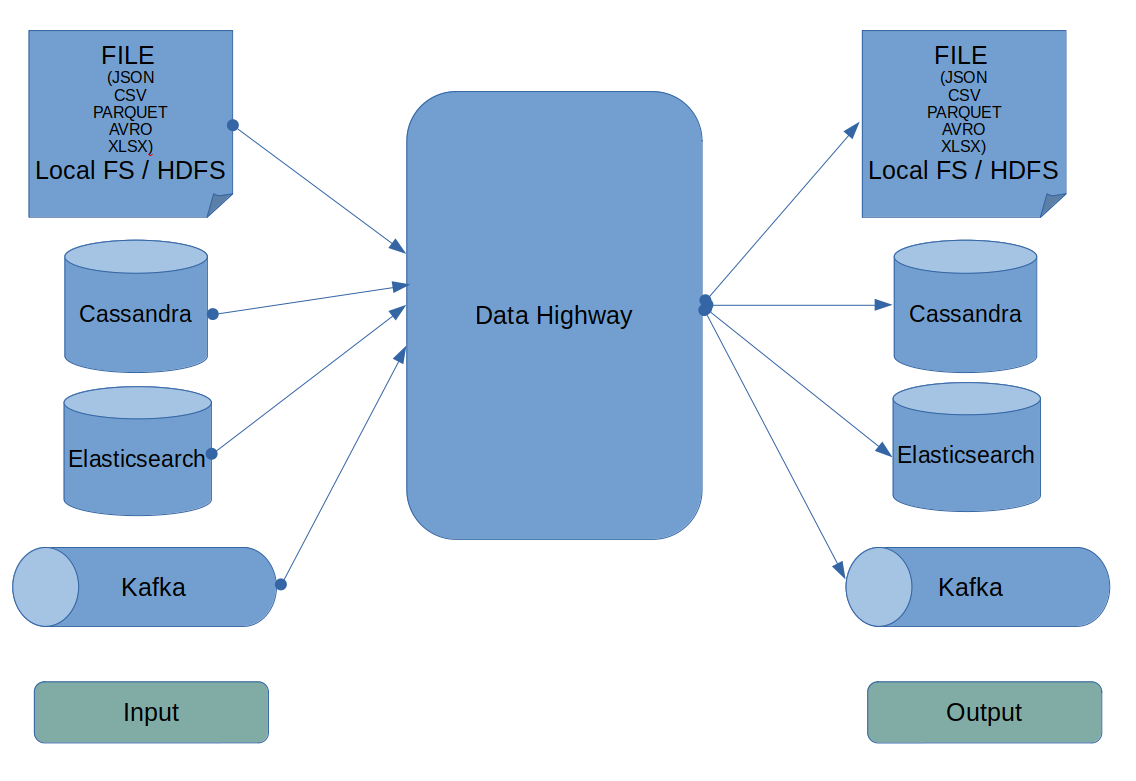
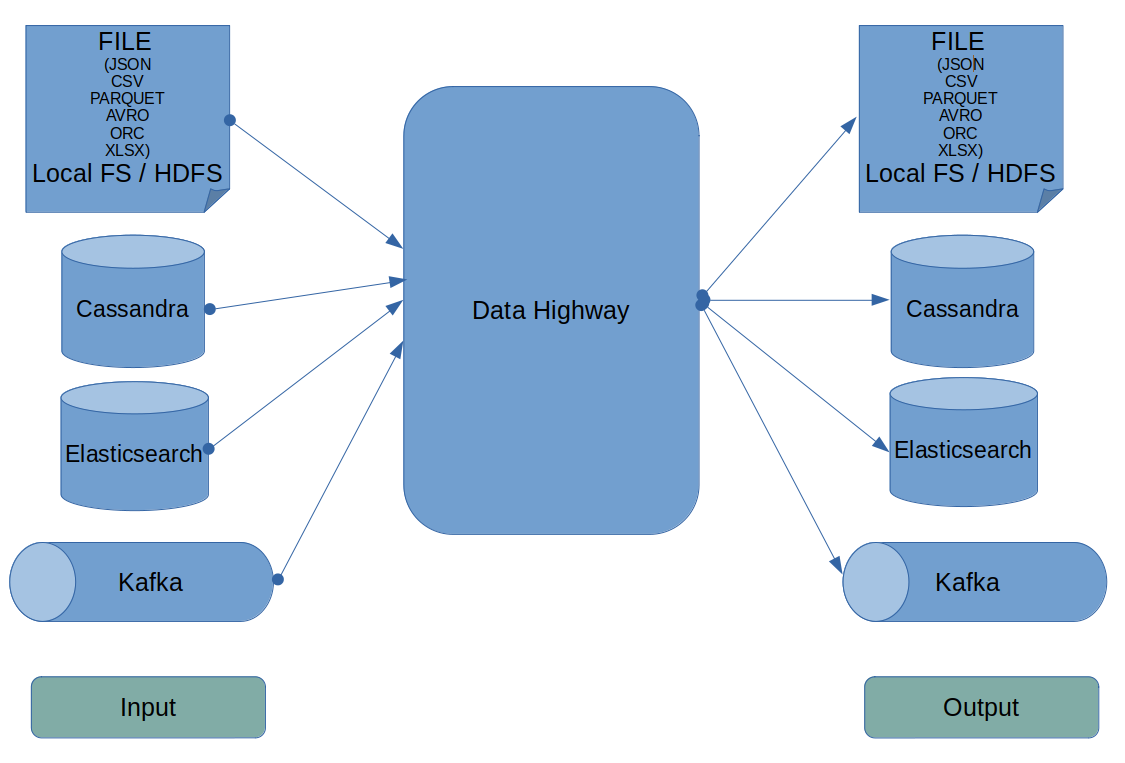
Update documentation

diff --git a/README.md b/README.md
@@ -1,15 +1,15 @@
 Yet another ETL.
 
 Using **data-highway**, you can convert your data to multiple data types or send them to other tools.
-The actual supported data types are : **JSON**, **CSV**, **PARQUET**, **AVRO** and **XLSX**.
+The actual supported data types are : **JSON**, **CSV**, **PARQUET**, **AVRO**, **ORC** and **XLSX**.
 **Data Highway** interacts as well with **Cassandra**, **Elasticsearch** and **Kafka**, using multiple modes.
 
 For example, **Data Highway** allows you to :
   - interact with different technologies through a user-friendly **RESTful API**
-  - produce **PARQUET**(avro, csv, json or xlsx) files into a **Kafka** topic
+  - produce **PARQUET**(avro, csv, json, orc or xlsx) files into a **Kafka** topic
   - index **AVRO**(parquet, csv, json or xlsx) files into an **Elasticsearch** index
   - insert **XLSX**(avro, csv, json or parquet) files into a **Cassandra** Table
-  - convert **CSV**(avro, parquet, json or xlsx) files to **JSON**(avro, csv, parquet or xlsx)
+  - convert **CSV**(avro, parquet, json, orc or xlsx) files to **JSON**(avro, csv, parquet, orc or xlsx)
   - convert or send files located in your **Local File System** or in **HDFS**
 
 In short, **Data Highway** supports the following data flow :
@@ -189,14 +189,14 @@ that will be created automatically.
     "input": { // 1- The input section
       "type": "file",
       "data-type": {
-        "type": "parquet" // supported values: 'avro', 'parquet', 'csv', 'json' and 'xlsx'
+        "type": "parquet" // supported values: 'avro', orc, 'parquet', 'csv', 'json' and 'xlsx'
       },
       "path": "/path/to/data/parquet/input"
     },
     "output": { // 2- The output section
       "type": "file",
       "data-type": {
-        "type": "avro" // supported values: 'avro', 'parquet', 'csv', 'json' and 'xlsx'
+        "type": "avro" // supported values: 'avro', orc, 'parquet', 'csv', 'json' and 'xlsx'
       },
       "path": "/path/to/data/avro/output"
     },
@@ -208,6 +208,38 @@ that will be created automatically.
     }
   }
 }
+```
+
+You can set compression for these output data types as follows :
+  - **Parquet**: The supported compression types for parquet are **none**, **uncompressed**, **snappy**, **gzip**, **lzo**, **brotli** and **lz4**
+```json
+...........
+  "output": {
+    "type": "file",
+    "data-type": {
+        "type": "parquet",
+        "compression": {
+            "type": "gzip" // supported values are: 'none', 'uncompressed', 'snappy', 'gzip', 'lzo', 'brotli' and 'lz4'
+        }
+    },
+    "path": "/path/to/parquet/output"
+  }
+..........
+```
+  - **ORC**: The supported compression types for orc are **none**, **snappy**, **lzo** and **zlib**
+```json
+...........
+  "output": {
+    "type": "file",
+    "data-type": {
+        "type": "orc",
+        "compression": {
+            "type": "snappy" // supported values are: 'none', 'snappy', 'lzo', and 'zlib'
+        }
+    },
+    "path": "/path/to/parquet/orc"
+  }
+..........
 ```
 
 ## 2- File to Kafka:
@@ -225,7 +257,7 @@ You can produce data to a Kafka topic using one of these 2 modes : `Pure Kafka P
     "input": {
       "type": "file",
       "data-type": {
-        "type": "avro" // supported values: 'avro', 'parquet', 'csv', 'json' and 'xlsx'
+        "type": "avro" // supported values: 'avro', orc, 'parquet', 'csv', 'json' and 'xlsx'
       },
       "path": "/path/to/data/avro/input"
     },
@@ -255,7 +287,7 @@ This a one-time job.
     "input": {
       "type": "file",
       "data-type": {
-        "type": "csv" // supported values: 'avro', 'parquet', 'csv', 'json' and 'xlsx'
+        "type": "csv" // supported values: 'avro', orc, 'parquet', 'csv', 'json' and 'xlsx'
       },
       "path": "/path/to/data/csv/input"
     },
@@ -285,7 +317,7 @@ This a one-time job.
     "input": {
       "type": "file",
       "data-type": {
-        "type": "avro" // supported values: 'avro', 'parquet', 'csv', 'json' and 'xlsx'
+        "type": "avro" // supported values: 'avro', orc, 'parquet', 'csv', 'json' and 'xlsx'
       },
       "path": "/path/to/data/csv/input"
     },
@@ -315,7 +347,7 @@ This a one-time job.
     "input": {
       "type": "file",
       "data-type": {
-        "type": "csv" // supported values: 'avro', 'parquet', 'csv', 'json' and 'xlsx'
+        "type": "csv" // supported values: 'avro', orc, 'parquet', 'csv', 'json' and 'xlsx'
       },
       "path": "/path/to/data/csv/input"
     },
@@ -360,7 +392,7 @@ This is a long-running job.
     "output": {
       "type": "file",
       "data-type": {
-        "type": "csv" // supported values: 'avro', 'parquet', 'csv', 'json' and 'xlsx'
+        "type": "csv" // supported values: 'avro', orc, 'parquet', 'csv', 'json' and 'xlsx'
       },
       "path": "/path/to/data/csv/input"
     },
@@ -398,7 +430,7 @@ This is a long-running job.
     "output": {
       "type": "file",
       "data-type": {
-        "type": "csv" // supported values: 'avro', 'parquet', 'csv', 'json' and 'xlsx'
+        "type": "csv" // supported values: 'avro', orc, 'parquet', 'csv', 'json' and 'xlsx'
       },
       "path": "/path/to/data/csv/input"
     },
@@ -434,7 +466,7 @@ This is a one-time job.
     "output": {
       "type": "file",
       "data-type": {
-        "type": "csv" // supported values: 'avro', 'parquet', 'csv', 'json' and 'xlsx'
+        "type": "csv" // supported values: 'avro', orc, 'parquet', 'csv', 'json' and 'xlsx'
       },
       "path": "/path/to/data/csv/input"
     },
@@ -717,7 +749,7 @@ This is a one-time job.
     "output": {
       "type": "file",
       "data-type": {
-        "type": "json" // supported values: 'avro', 'parquet', 'csv', 'json' and 'xlsx'
+        "type": "json" // supported values: 'avro', orc, 'parquet', 'csv', 'json' and 'xlsx'
       },
       "path": "/path/to/data/json/output"
     },
@@ -1074,7 +1106,7 @@ This is a one-time job. See section [12- Elasticsearch Search Queries](#12--elas
     "output": {
       "type": "file",
       "data-type": {
-        "type": "json" // supported values: 'avro', 'parquet', 'csv', 'json' and 'xlsx'
+        "type": "json" // supported values: 'avro', orc, 'parquet', 'csv', 'json' and 'xlsx'
       },
       "path": "/path/to/data/json/output"
     },
